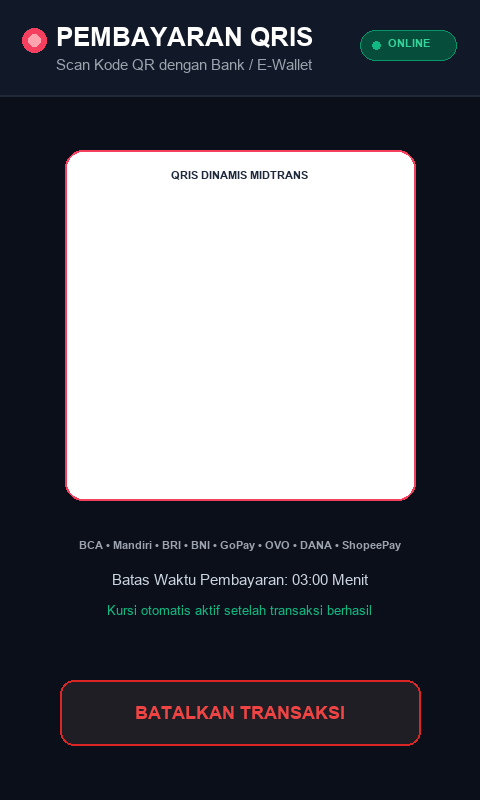
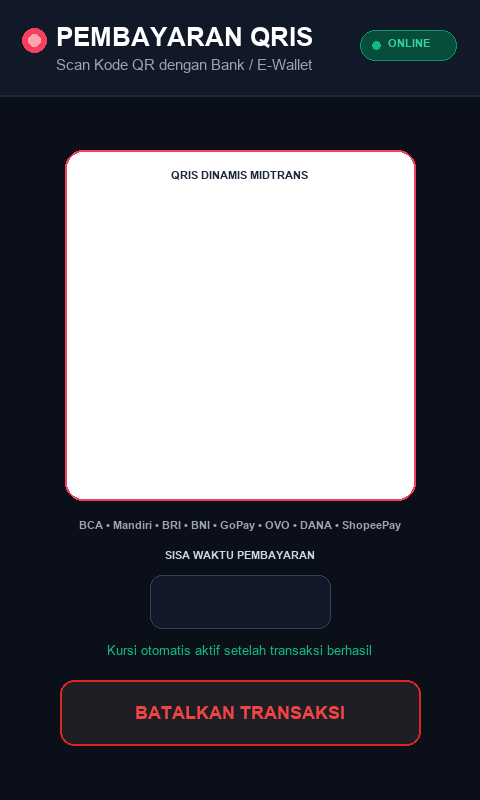
feat(ui): remove static 03:00 text and add sleek dynamic timer box on page 1 background

diff --git a/tjc_ui_assets/generate_tjc_backgrounds.py b/tjc_ui_assets/generate_tjc_backgrounds.py
@@ -108,9 +108,13 @@ d1.rounded_rectangle([65, qr_box_y, 415, qr_box_y + 350], radius=18, fill="#ffff
 d1.text((240, qr_box_y + 25), "QRIS DINAMIS MIDTRANS", font=font_tag, fill="#1e293b", anchor="mm")
 
 # Instruction Text
-d1.text((240, 545), "BCA • Mandiri • BRI • BNI • GoPay • OVO • DANA • ShopeePay", font=font_tag, fill="#9ca3af", anchor="mm")
-d1.text((240, 580), "Batas Waktu Pembayaran: 03:00 Menit", font=font_subtitle, fill="#cbd5e1", anchor="mm")
-d1.text((240, 610), "Kursi otomatis aktif setelah transaksi berhasil", font=font_footer, fill="#10b981", anchor="mm")
+d1.text((240, 525), "BCA • Mandiri • BRI • BNI • GoPay • OVO • DANA • ShopeePay", font=font_tag, fill="#9ca3af", anchor="mm")
+d1.text((240, 555), "SISA WAKTU PEMBAYARAN", font=font_tag, fill="#cbd5e1", anchor="mm")
+
+# Sleek Container Box untuk Komponen Teks t_qtimer (Kosong & bersih untuk t_qtimer)
+d1.rounded_rectangle([150, 575, 330, 628], radius=12, fill="#111827", outline="#334155", width=1)
+
+d1.text((240, 650), "Kursi otomatis aktif setelah transaksi berhasil", font=font_footer, fill="#10b981", anchor="mm")
 
 # Cancel Button at Bottom
 d1.rounded_rectangle([60, 680, 420, 745], radius=14, fill="#1e1e24", outline="#dc2626", width=2)
